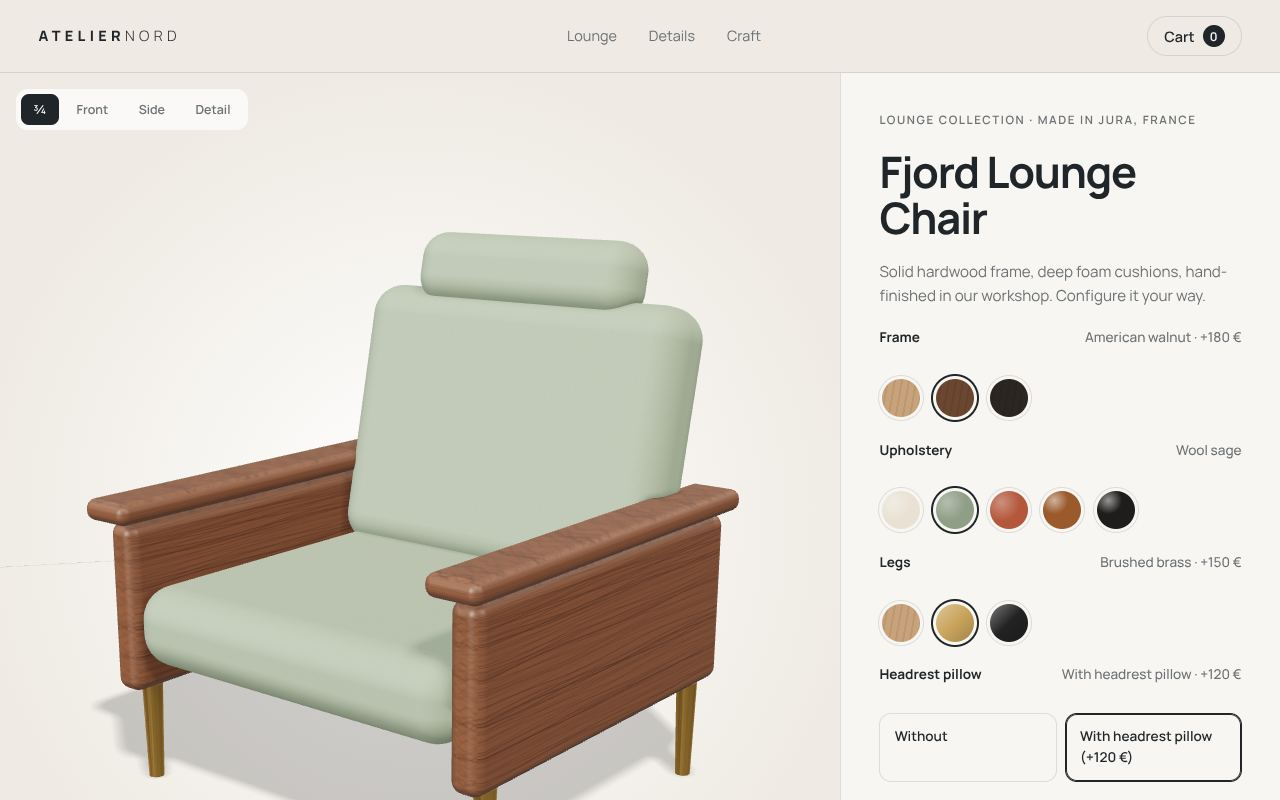
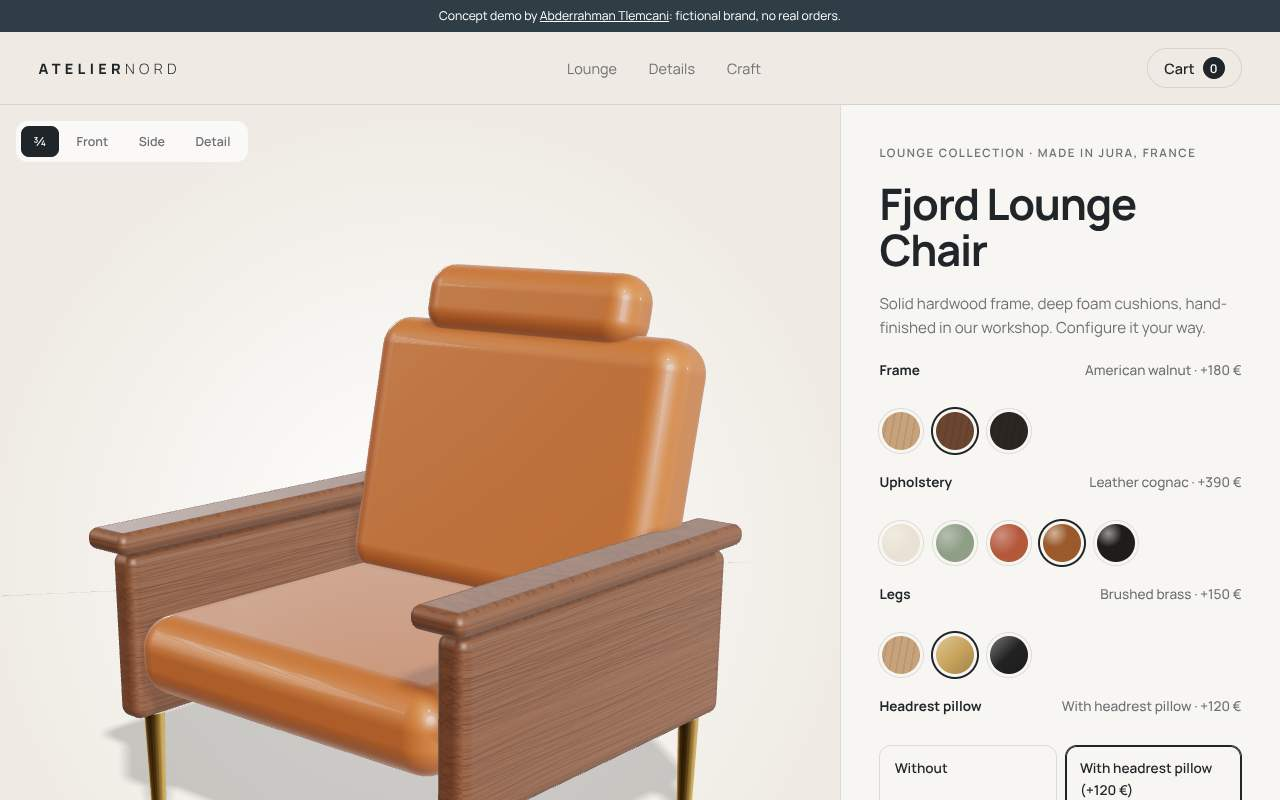
docs: refresh configurator and Orbit thumbnails and outcomes

diff --git a/src/content.ts b/src/content.ts
@@ -68,7 +68,7 @@ export const work: Work[] = [
     client: 'Design furniture · E-commerce demo',
     summary: 'A 3D product configurator: pick wood, fabric and leg finish, watch the chair update in real time, share the configuration by link and add it to the cart.',
     tags: ['Three.js', 'TypeScript', 'PBR materials', 'State in URL'],
-    outcomes: ['Procedural wood & fabric textures, no model files', 'Shareable deep links, input whitelisted', 'Persistent cart synced across tabs'],
+    outcomes: ['Procedural wood & fabric, lit by a real studio HDRI', 'Shareable deep links, input whitelisted', 'Persistent cart synced across tabs'],
     accent: ['#d9c6a5', '#2f3e46'],
     ...gh('atelier-3d-configurator'),
   },
@@ -78,7 +78,7 @@ export const work: Work[] = [
     client: 'B2B SaaS · Landing page demo',
     summary: 'A conversion-focused SaaS landing page with an interactive WebGL globe, a bento feature grid, monthly/yearly pricing and an accessible FAQ.',
     tags: ['WebGL', 'TypeScript', 'Pricing', 'Core Web Vitals'],
-    outcomes: ['GPU instanced globe (12k points)', 'Pricing toggle with annual savings, unit-tested', 'WAI-ARIA radiogroup & native FAQ'],
+    outcomes: ['Globe drawn from real Natural Earth data (14k instanced points)', 'Pricing toggle with annual savings, unit-tested', 'WAI-ARIA radiogroup & native FAQ'],
     accent: ['#7a5cff', '#22d3ee'],
     ...gh('orbit-saas-landing'),
   },
